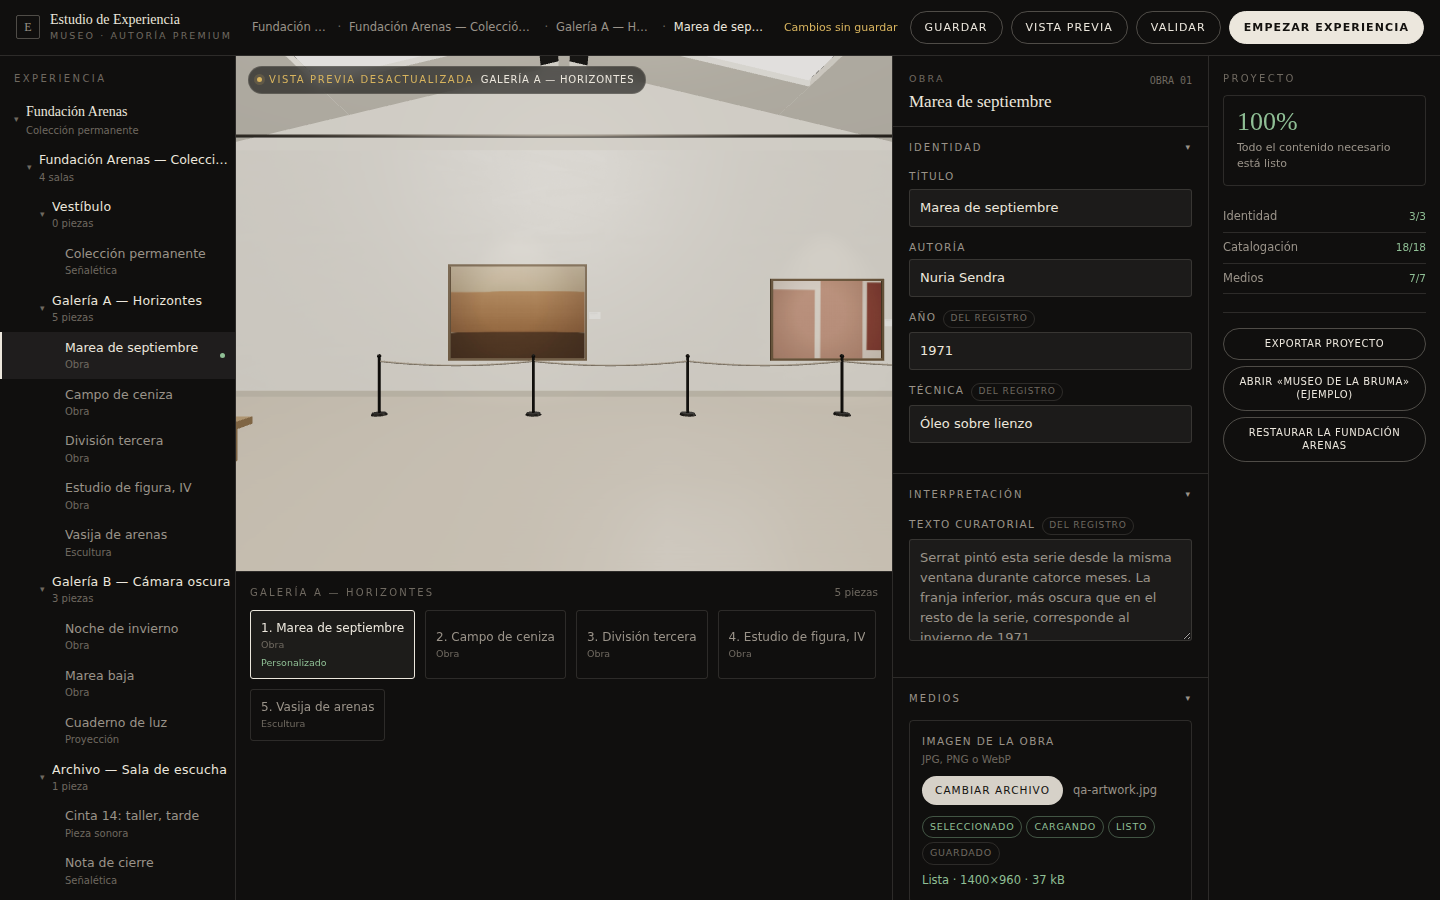
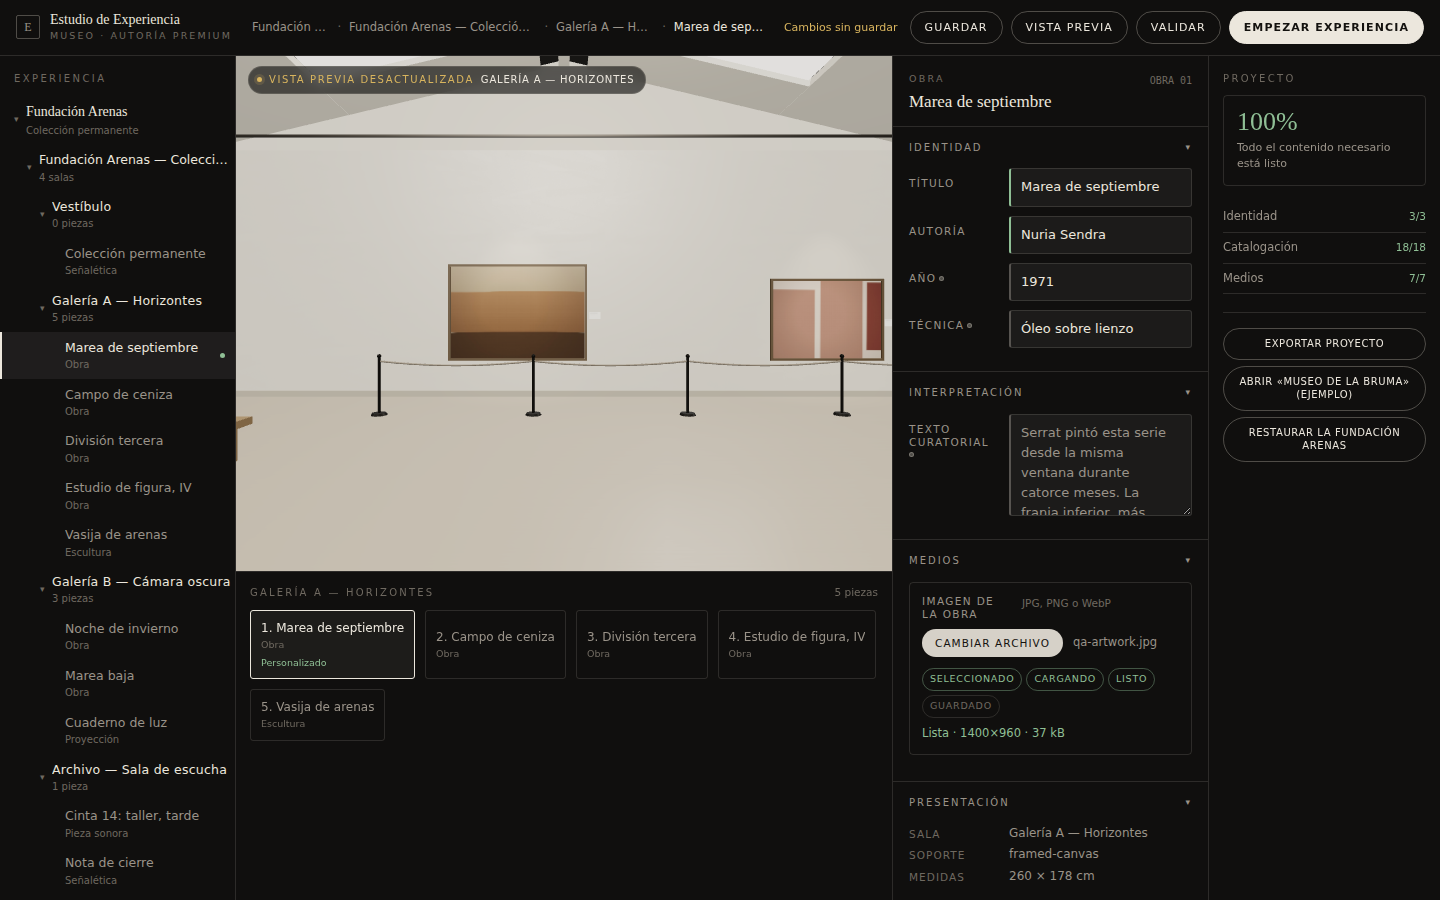
feat(museum): editor density — label beside field, as the reference sets a form
The measured gap against the approved reference was density: it fits
roughly twenty fields above the fold and the studio fit four. In an
authoring tool that is not decoration — it is how much of a record an
editor can hold in their head at once. Five sections are now visible
where two and a half were, including Presentación, which no one had seen
without scrolling.

The change is a media query, not a rewrite: at 1241 px and wider the
label sits beside its field. Below that the stacked layout is unchanged,
because two columns in a 300 px panel would be worse than one.

Found in the capture that followed: "del registro" wrapped onto three
lines in an 88 px label column and made every row ragged. The signal
survives as a mark plus the field's own left edge — inherited, authored
and empty remain three distinguishable states, which is what the chip
was there to guarantee.

Evidence refreshed at this HEAD across all three waves; smoke 12/12,
console clean.

Changed region(s): [[0.625, 0.1867, 0.8125, 0.9956]]

diff --git a/labs/immersive-worlds/qa/evidence-vs02/index.html b/labs/immersive-worlds/qa/evidence-vs02/index.html
@@ -69,7 +69,7 @@ del resultado y no sólo de la foto.</p>
   <div><b>17</b>corregidos</div>
   <div><b>5</b>abiertos</div>
   <div><b>0</b>errores de consola</div>
-  <div><b>7f55928</b>HEAD</div>
+  <div><b>e7a0a1d</b>HEAD</div>
 </div>
 
 <h2>VS01 frente a VS02</h2>
@@ -403,7 +403,7 @@ mirando las capturas o midiendo las ejecuciones, no leyendo el código.</p>
 <p>Abrir · navegar la exposición · editar la institución · subir marca, imagen y vídeo · guardar ·
 validar · vista previa · empezar como visitante · segunda institución · volver al original.</p>
 
-  <h3 class="wave">W1 · Árbol de la experiencia y espacio de trabajo — run <code>vs02_w1_mssb3gts</code> · HEAD <code>7f55928</code></h3>
+  <h3 class="wave">W1 · Árbol de la experiencia y espacio de trabajo — run <code>vs02_w1_mssmce8t</code> · HEAD <code>e7a0a1d</code></h3>
   <div class="grid">
   <figure id="w1_02_VS02_DEFAULT">
     <img src="w1/02_VS02_DEFAULT.png" alt="Estudio recién abierto sobre el Museo por defecto" loading="lazy">
@@ -480,7 +480,7 @@ validar · vista previa · empezar como visitante · segunda institución · vol
   
   
 
-  <h3 class="wave">W2 · Medios, estados y recuperación — run <code>vs02_w2_mssbcrnd</code> · HEAD <code>7f55928</code></h3>
+  <h3 class="wave">W2 · Medios, estados y recuperación — run <code>vs02_w2_mssmmikt</code> · HEAD <code>e7a0a1d</code></h3>
   <div class="grid">
   <figure id="w2_05_LOGO_SELECTED">
     <img src="w2/05_LOGO_SELECTED.png" alt="Logotipo recién elegido — el fotograma inmediatamente posterior" loading="lazy">
@@ -605,7 +605,7 @@ validar · vista previa · empezar como visitante · segunda institución · vol
     Cadena de estados registrada en esta tanda:
     <code>image:SELECTED</code> · <code>image:LOADING</code> · <code>image:READY</code> · <code>video:SELECTED</code> · <code>video:LOADING</code> · <code>video:DECODED</code> · <code>video:READY</code> · <code>image:ERROR</code> · <code>image:RELEASED</code></p>
 
-  <h3 class="wave">W3–W4 · Guardar, validar, empezar y la segunda institución — run <code>vs02_w3_mssbewwe</code> · HEAD <code>7f55928</code></h3>
+  <h3 class="wave">W3–W4 · Guardar, validar, empezar y la segunda institución — run <code>vs02_w3_mssmowyx</code> · HEAD <code>e7a0a1d</code></h3>
   <div class="grid">
   <figure id="w3_15_CONFIG_SAVED">
     <img src="w3/15_CONFIG_SAVED.png" alt="Proyecto guardado" loading="lazy">
@@ -615,7 +615,7 @@ validar · vista previa · empezar como visitante · segunda institución · vol
       <dl>
         <dt>Acción</dt><dd>Pulsar GUARDAR</dd>
         <dt>Se espera</dt><dd>La cabecera pasa de «Cambios sin guardar» a una hora de guardado; GUARDADO se completa en la cadena del archivo — guardar el proyecto no es lo mismo que decodificar un archivo</dd>
-        <dt>Se observa</dt><dd>Guardado · 02:16</dd>
+        <dt>Se observa</dt><dd>Guardado · 07:32</dd>
       </dl>
     </figcaption>
   </figure>
@@ -705,7 +705,7 @@ Consola: limpia en las tres tandas.</p>
 
 <div class="gate">
   <p><b>Puerta.</b> A la espera de revisión de Juanma y de ChatGPT. Sin merge, sin promoción, sin
-  tocar master. Rama <code>claude/immersive-worlds-module-c0d3f7</code>, HEAD <code>7f55928</code>.</p>
+  tocar master. Rama <code>claude/immersive-worlds-module-c0d3f7</code>, HEAD <code>e7a0a1d</code>.</p>
   <p>La evidencia de VS01 sigue intacta en <code>qa/evidence-authoring/</code> y su artifact no se ha
   reemplazado.</p>
 </div>

diff --git a/labs/immersive-worlds/authoring/studio/studio.css b/labs/immersive-worlds/authoring/studio/studio.css
@@ -381,6 +381,50 @@ h2 {
 .st-msg { margin: 12px 0 0; font-size: 11px; line-height: 1.5; color: var(--st-dim); }
 .st-msg.is-bad { color: var(--st-bad); }
 
+/* == wide: label beside field, the way the approved reference sets a form ===
+   Stacked rows put four fields above the fold; the reference fits roughly
+   twenty. Density is not decoration in an authoring tool — it is how much of
+   the record an editor can hold in their head at once. */
+
+@media (min-width: 1241px) {
+  .st-f {
+    display: grid;
+    grid-template-columns: 88px 1fr;
+    align-items: start;
+    gap: 2px 12px;
+    margin: 0 0 9px;
+  }
+  .st-l {
+    grid-column: 1;
+    margin: 0;
+    padding-top: 9px;
+    flex-wrap: wrap;
+    gap: 3px;
+    line-height: 1.25;
+  }
+  .st-h { grid-column: 2; margin: 0 0 3px; }
+  #st .st-f input:not([type=file]),
+  #st .st-f textarea,
+  #st .st-f select { grid-column: 2; }
+  .st-gb { padding: 0 16px 14px; }
+  .st-facts { grid-template-columns: 88px 1fr; gap: 3px 12px; }
+  .st-slothead { display: grid; grid-template-columns: 88px 1fr; gap: 2px 12px; margin-bottom: 8px; }
+  .st-slothead .st-l { padding-top: 0; }
+
+  /* In an 88 px column the words "del registro" wrap onto three lines and make
+     every label ragged. The signal survives as a mark: the field's own ink
+     already separates an inherited value from one the author typed, and from an
+     empty one. */
+  .st-inh {
+    width: 5px; height: 5px; padding: 0; border-radius: 50%;
+    font-size: 0; line-height: 0; overflow: hidden;
+    border-color: var(--st-line-strong); background: var(--st-line-strong);
+    flex: 0 0 auto; align-self: center;
+  }
+  #st .st-f [data-state="inherited"] { border-left: 2px solid var(--st-line-strong); }
+  #st .st-f [data-state="own"] { border-left: 2px solid var(--st-ok); }
+}
+
 /* == narrower: the validation column folds into the editor ================= */
 
 @media (max-width: 1240px) {

diff --git a/labs/immersive-worlds/qa/evidence-vs02/gauntlet.html b/labs/immersive-worlds/qa/evidence-vs02/gauntlet.html
@@ -68,7 +68,7 @@ th{font-size:10px;letter-spacing:.16em;text-transform:uppercase;color:#6f6960;fo
 interrumpir la ejecución para preguntar cómo va.</p>
 
 <div class="sum">
-  <div><b>7f55928</b>HEAD actual</div>
+  <div><b>e7a0a1d</b>HEAD actual</div>
   <div><b>3/3</b>tandas capturadas</div>
   <div><b>22</b>capturas</div>
   <div><b>17</b>defectos corregidos</div>
@@ -79,16 +79,16 @@ interrumpir la ejecución para preguntar cómo va.</p>
 <p>Construir → navegador real → capturar → crítico fresco → mayor hueco primero → corregir.</p>
 <div class="w">
     <em class="ok">capturada</em>
-    <div><b>W1 · Árbol de la experiencia y espacio de trabajo</b><br><i>6 capturas · run vs02_w1_mssb3gts</i></div>
-    <i>2026-08-14 02:13</i>
+    <div><b>W1 · Árbol de la experiencia y espacio de trabajo</b><br><i>6 capturas · run vs02_w1_mssmce8t</i></div>
+    <i>2026-08-14 07:28</i>
   </div><div class="w">
     <em class="ok">capturada</em>
-    <div><b>W2 · Medios, estados y recuperación</b><br><i>9 capturas · run vs02_w2_mssbcrnd</i></div>
-    <i>2026-08-14 02:15</i>
+    <div><b>W2 · Medios, estados y recuperación</b><br><i>9 capturas · run vs02_w2_mssmmikt</i></div>
+    <i>2026-08-14 07:31</i>
   </div><div class="w">
     <em class="ok">capturada</em>
-    <div><b>W3–W4 · Guardar, validar, empezar y la segunda institución</b><br><i>7 capturas · run vs02_w3_mssbewwe</i></div>
-    <i>2026-08-14 02:18</i>
+    <div><b>W3–W4 · Guardar, validar, empezar y la segunda institución</b><br><i>7 capturas · run vs02_w3_mssmowyx</i></div>
+    <i>2026-08-14 07:34</i>
   </div>
 <div class="w"><em class="ok">hecha</em><div><b>W5 · Integración y coherencia</b><br>
   <i>crítico de integración sobre el producto completo</i></div><i></i></div>
